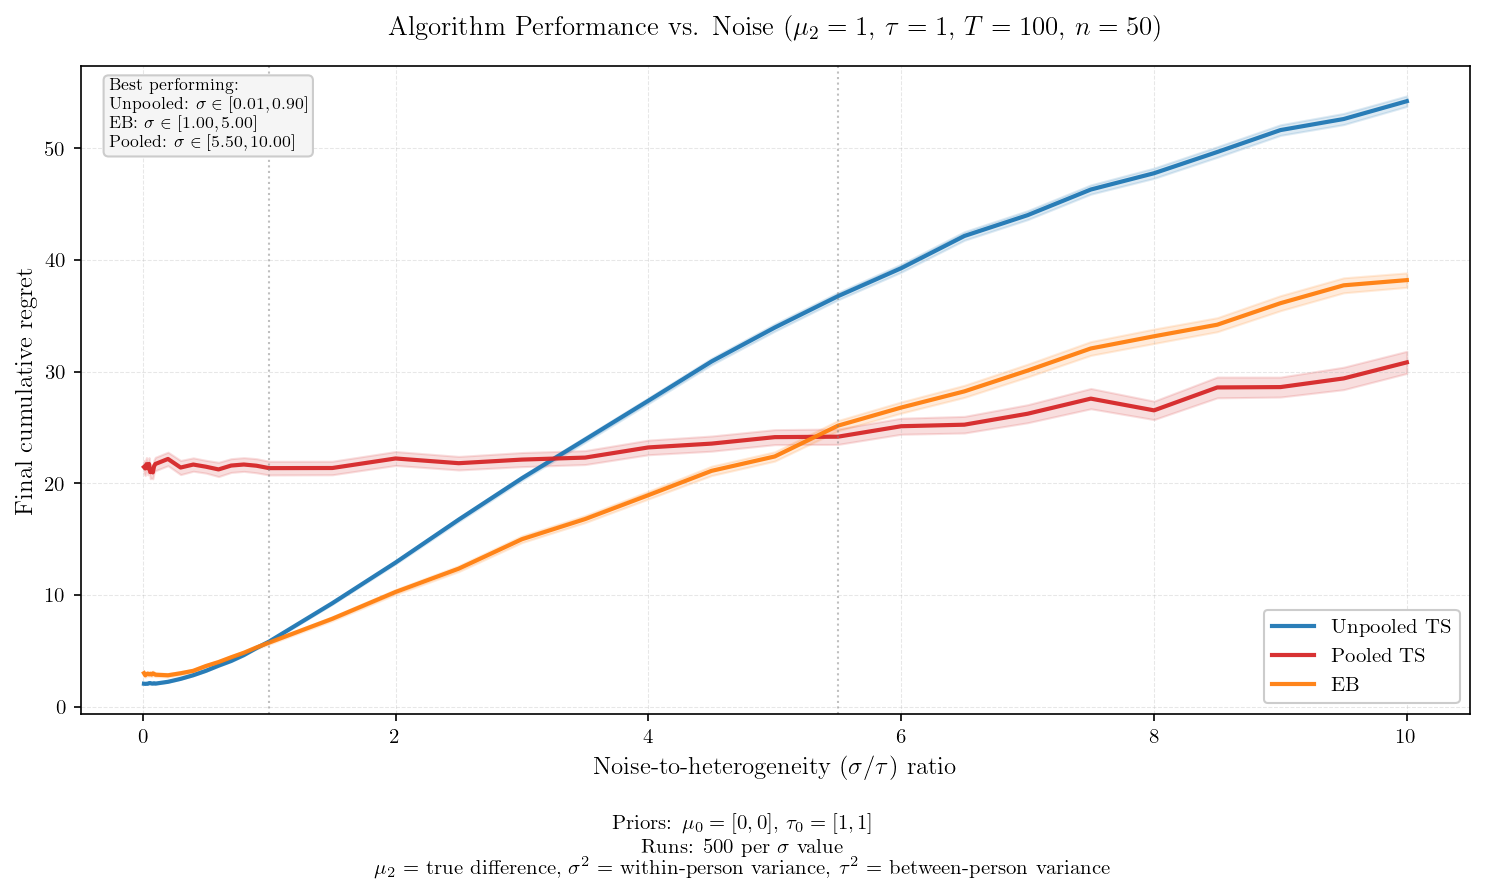
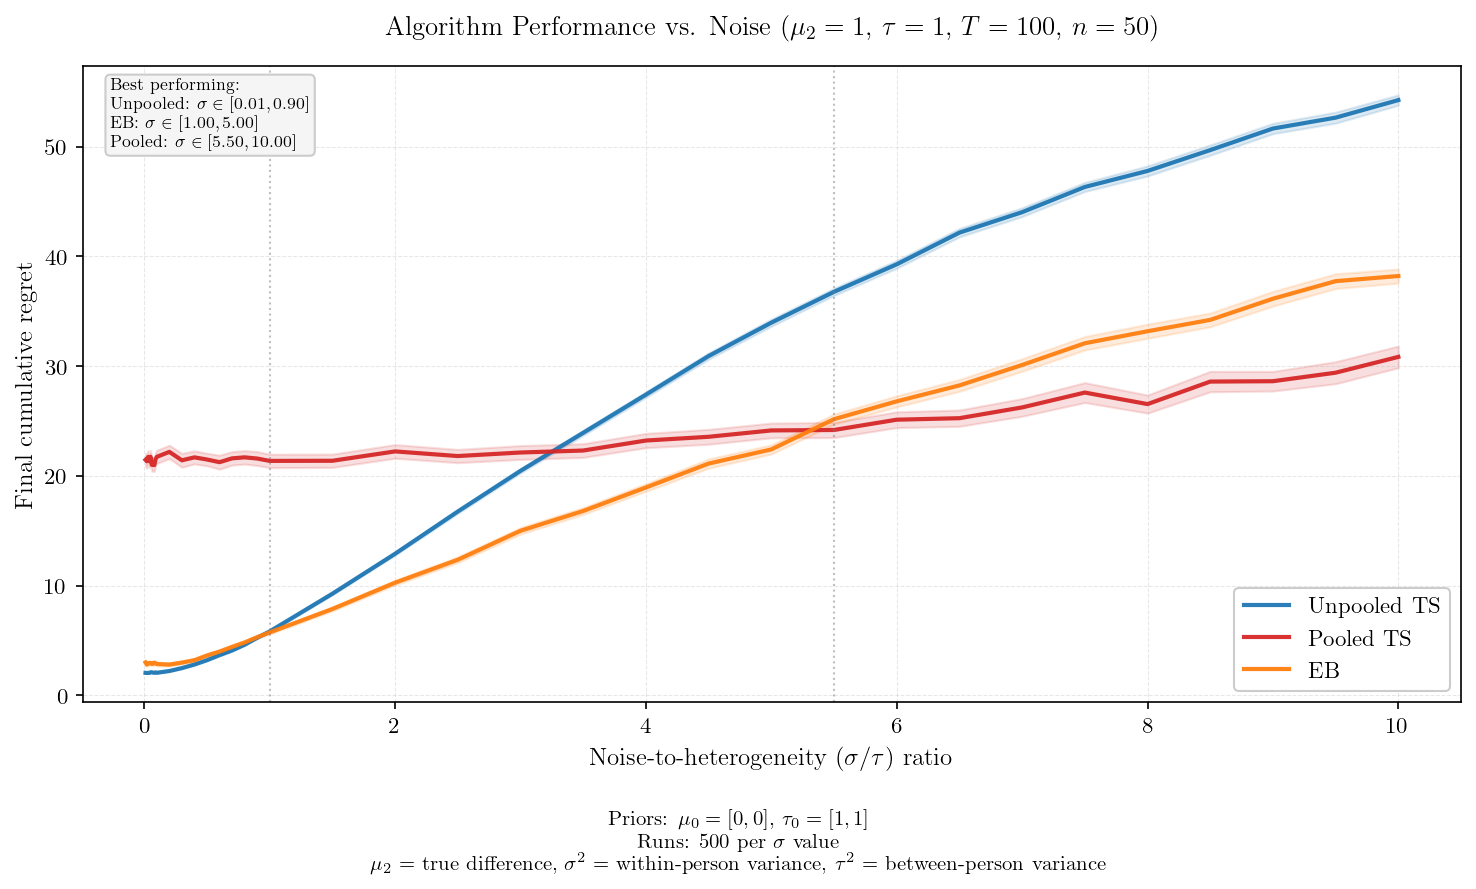
small edit to sigma sweep plotting script

diff --git a/2026/vanilla-bandit/022726/plot_sigma_sweep.py b/2026/vanilla-bandit/022726/plot_sigma_sweep.py
@@ -6,12 +6,12 @@ def main():
     # Enable LaTeX rendering for consistent math fonts
     # plt.rcParams['text.usetex'] = True
     plt.rcParams['font.family'] = 'serif'
-    plt.rcParams['font.size'] = 10
-    plt.rcParams['axes.labelsize'] = 11
+    plt.rcParams['font.size'] = 12
+    plt.rcParams['axes.labelsize'] = 12
     plt.rcParams['axes.titlesize'] = 12
-    plt.rcParams['legend.fontsize'] = 10
-    plt.rcParams['xtick.labelsize'] = 10
-    plt.rcParams['ytick.labelsize'] = 10
+    plt.rcParams['legend.fontsize'] = 11
+    plt.rcParams['xtick.labelsize'] = 11
+    plt.rcParams['ytick.labelsize'] = 11
     
     # Mature, muted color palette for academic publications (same as before)
     colors = {